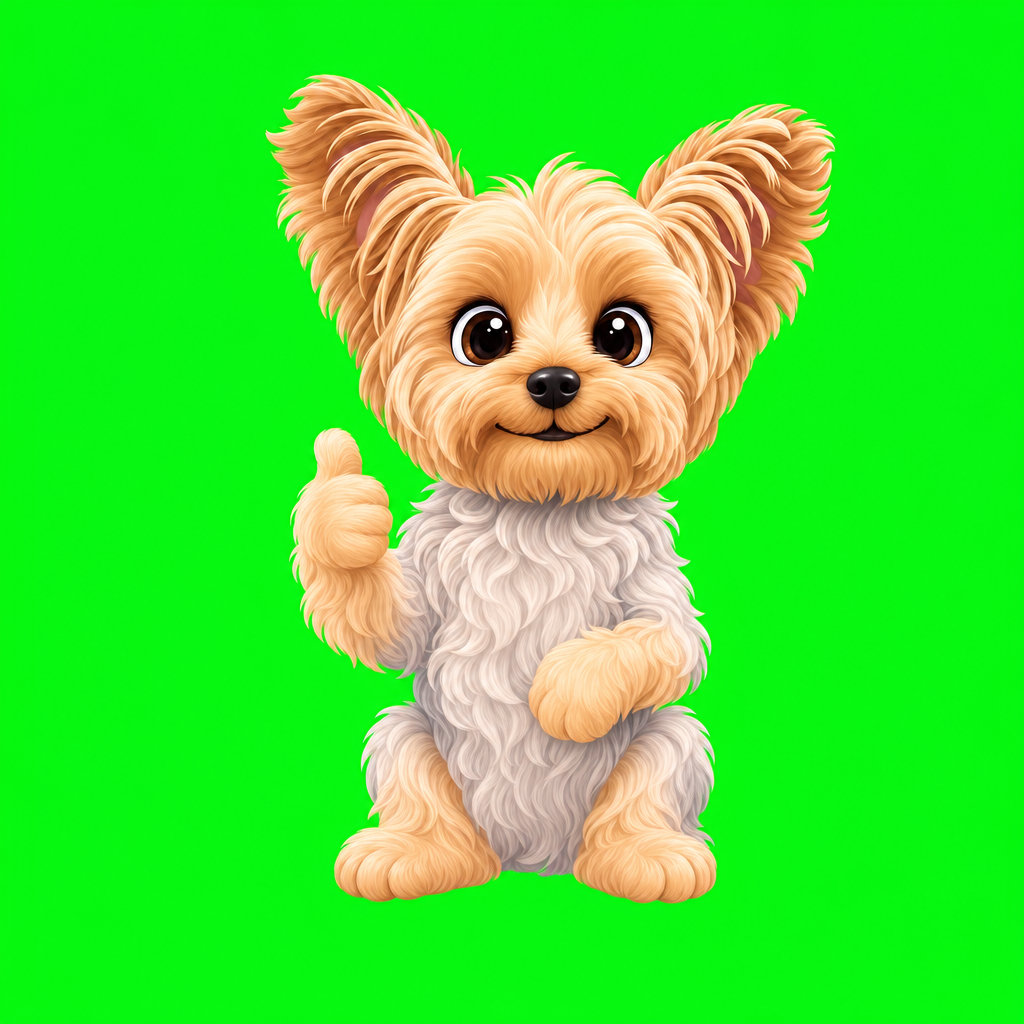
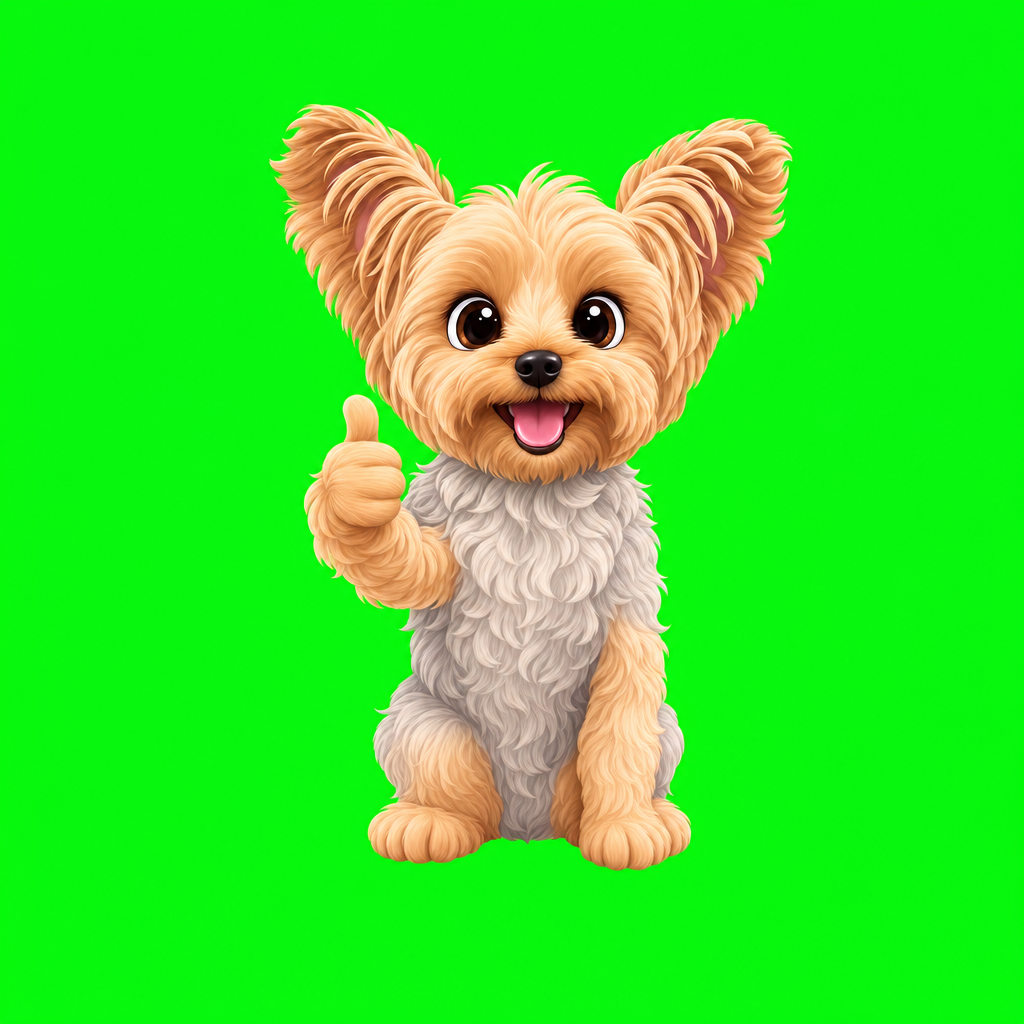
Testers' feedback: three recordings re-bought, Teddy's thumbs up redrawn again

Changed region(s): [[0.25, 0.0625, 0.8125, 0.9062]]

diff --git a/native/src/wordaudio.js b/native/src/wordaudio.js
@@ -97,7 +97,7 @@ export const WORD_CLIPS = {
   "а ты?": require("../assets/words/s-efc7652ca76a.mp3"),
   "а что мне потом делать?": require("../assets/words/s-b49ea29d246c.mp3"),
   "а это ее родители.": require("../assets/words/s-1433f5ec6a9a.mp3"),
-  "а это их дети.": require("../assets/words/s-0485b4b09b71.mp3"),
+  "а это их дети.": require("../assets/words/s-ffe3e35cb87a.mp3"),
   "а это мой телефон.": require("../assets/words/s-428f93bd0fc1.mp3"),
   "а это моя мама.": require("../assets/words/s-cfca4aba8156.mp3"),
   "а это тоже чайник.": require("../assets/words/s-bb364552ed34.mp3"),

diff --git a/native/src/formaudio.js b/native/src/formaudio.js
@@ -8800,7 +8800,7 @@ export const FORM_CLIPS = {
   "сала́том": require("../assets/words/salatom.mp3"),
   "сала́ту": require("../assets/words/salatu.mp3"),
   "сала́ты": require("../assets/words/salaty.mp3"),
-  "салфе́тка": require("../assets/words/salfetka.mp3"),
+  "салфе́тка": require("../assets/words/salfetka-f0b5b7.mp3"),
   "салфе́ткам": require("../assets/words/salfetkam.mp3"),
   "салфе́тками": require("../assets/words/salfetkami.mp3"),
   "салфе́тках": require("../assets/words/salfetkah.mp3"),
